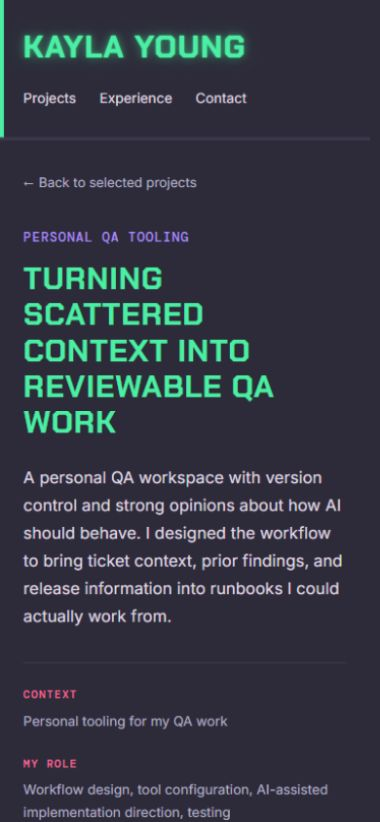
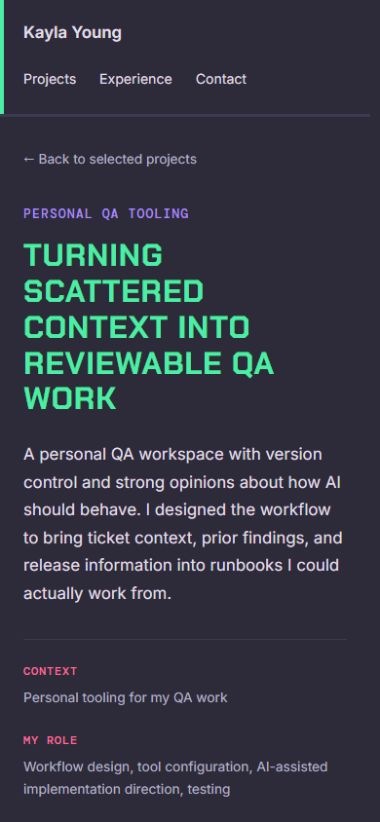
Quiet the case study header to emphasize its title

diff --git a/portfolio/projects/qa-workflow.css b/portfolio/projects/qa-workflow.css
@@ -1,9 +1,9 @@
 /* The portfolio's shared palette and type, scoped to this case study. */
 .qa-case { overflow-wrap: anywhere; }
-.qa-case .case-header { position: relative; padding: 48px 48px 32px; }
+.qa-case .case-header { position: relative; padding: 24px 48px; }
 .qa-case .case-header::before { content: ""; position: absolute; inset: 0 auto 0 0; width: 4px; background: var(--green); }
 .qa-case .case-header-inner { max-width: none; display: block; }
-.qa-case .site-name { font: 700 clamp(2rem, 5vw, 3.2rem)/1 var(--font-display); letter-spacing: .04em; text-shadow: var(--glow-green); }
+.qa-case .site-name { font: 600 1.05rem/1.5 var(--font-body); color: var(--fg); letter-spacing: 0; text-transform: none; text-shadow: none; }
 .qa-case .case-nav { margin-top: 18px; gap: 8px 24px; font-size: .88rem; }
 .qa-case .case-nav a { color: var(--fg); min-height: 32px; display: inline-flex; align-items: center; }
 .qa-case .case-nav a:hover { color: var(--magenta); }
@@ -36,7 +36,7 @@
 .qa-case .case-footer { border: 0; padding: 28px 0 40px; font-size: .88rem; }
 .qa-case .case-footer a { padding-block: 8px; }
 @media (max-width: 768px) {
-  .qa-case .case-header { padding: 32px 24px 24px; }
+  .qa-case .case-header { padding: 20px 24px; }
   .qa-case .case-intro { padding: 24px 24px 0; }
   .qa-case .case-facts { grid-template-columns: repeat(2, minmax(0, 1fr)); gap: 24px 20px; }
   .qa-case .case-layout { grid-template-columns: minmax(0, 1fr); }

diff --git a/verification/qa-portfolio-style.md b/verification/qa-portfolio-style.md
@@ -1,6 +1,6 @@
 # QA case-study visual alignment
 
-Compared the live `/portfolio/` page with the QA workflow case study. The page-specific stylesheet now uses the portfolio's green nameplate and left stripe, shared purple background and type, pink monospace headings, 200px sidebar, section rules, and inset evidence styling. The reading column stays bounded while the page chrome uses the portfolio's full-width layout.
+Compared the live `/portfolio/` page with the QA workflow case study. The page-specific stylesheet now uses the portfolio's compact plain name link and green left stripe, shared purple background and type, pink monospace headings, 200px sidebar, section rules, and inset evidence styling. The reading column stays bounded while the page chrome uses the portfolio's full-width layout.
 
 Only `qa-workflow.html` loads the new stylesheet. Shared styles, other project pages and case-study text are unchanged. A normalized text comparison with the parent revision passed.
 
